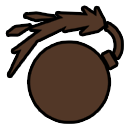
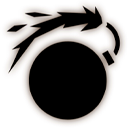
Cambio de la bomba y bug de 3 respuestas arreglado

diff --git a/src/scenes/Controller/CTrivia.ts b/src/scenes/Controller/CTrivia.ts
@@ -47,7 +47,8 @@ export default class CTrivia {
     this._cConfiguracion = cConfiguracion; //Asigna el controlador de configuración
     this.escena.add.image(1920 / 2, 1080 / 2, "fondoTrivia").setDepth(-20); //Agrega el fondo
     this.escena.add.image(225 + 556, 100 + 205, "cuadroDeDialogo"); //Agrega el cuadro de dialogo
-    this.escena.add.image(700, 1030, "moneda"); //Agrega la moneda
+    this.escena.add.image(700, 1015, "moneda"); //Agrega la moneda
+    this.escena.add.image(730, 1015, "moneda"); //Agrega la moneda
     //Animación para Risa
     this.escena.anims.create({
       key: "risaPregunta",
@@ -139,9 +140,11 @@ export default class CTrivia {
     let i = 0;
     this.botones.forEach((b) => {
       b.texto.text = this.preguntas[this.preguntaActual].respuestas[i];
+      b.boton.off("pointerup");
       b.boton.on("pointerup", () => this.PointerUp(b));
       i++;
     });
+    this.botonesMejoras[0].boton.off("pointerup");
     this.botonesMejoras[0].boton.on("pointerup", () =>
       this.BuscarBotonesIncorrectos()
     );
@@ -175,22 +178,28 @@ export default class CTrivia {
         i.push(b);
       }
     }); //Recorre el arreglo de botones y agrega los botones que no son la respuesta correcta
-    i.pop(); //Elimina el último botón
+    console.log(i);
+    while (i.length > 2) {
+      i.pop(); //Elimina el último botón
+    } //Mientras el arreglo de botones sea mayor a 2, elimina el último botón
     this.mejoraBomba.EfectoMejora(i); //Ejecuta el efecto de mejora
-    this.botonesMejoras[0].CambiarColor(0x808080); //Cambia el color del botón
+    this.botonesMejoras[0].boton.setAlpha(0.5); //Pone el botón de mejora en gris
     this.botonesMejoras[0].PausarBoton(); //Pausa el botón
     this.risa.anims.play("risaBomba", true); //Inicia la animación de risa
   }
 
   public ReiniciarNivel() {
-    this.CargarTrivia();
+    this.CargarTrivia();  //Carga las preguntas
     this.botones.forEach((b) => {
-      b.CambiarColor(0xffffff);
-      b.ResetearBoton();
+      b.CambiarColor(0xffffff); //Cambia el color de los botones a blanco
+      b.ResetearBoton();  //Resetea el botón
     });
-    this.botonesMejoras[0].CambiarColor(0xffffff);
-    this.botonesMejoras[0].ResetearBoton();
-    this.risa.anims.play("risaPregunta", true);
+    this.botonesMejoras.forEach((b) => {
+      b.CambiarColor(0xffffff); //Cambia el color de los botones a blanco
+      b.ResetearBoton();  //Resetea el botón
+      b.boton.setAlpha(1);  //Pone el botón en 1 (opacidad)
+    });
+    this.risa.anims.play("risaPregunta", true); //Inicia la animación de risa
   }
 
   //Metodo para definir la funcion del click, en teste caso, consiste en revisar la respuesta y ver si es correcta.

diff --git a/src/scenes/Model/Moneda.ts b/src/scenes/Model/Moneda.ts
@@ -3,19 +3,22 @@ export default class Moneda {
   private _physics: any;
   private _valor: number;
   private _cuerpo: any;
+  private _particulas: any;
 
   constructor(
     sprite: string,
     physics: any,
     valor: number,
     x: number,
-    y: number
+    y: number,
+    particulas: any
   ) {
     this._sprite = sprite;
     this._physics = physics;
     this._valor = valor;
     this._cuerpo = this.physics.add.sprite(x, y, this.sprite);
     this._cuerpo.body.setAllowGravity(false);
+    this._particulas = particulas;
   }
 
   public OcultarMoneda() {
@@ -32,6 +35,10 @@ export default class Moneda {
     } catch (error) {
       console.error("Error al intentar ocultar la moneda." + error);
     }
+  }
+
+  public DesaparecerMoneda() {
+    this.cuerpo.setVisible(false);
   }
 
   //Getters and setters
@@ -60,11 +67,19 @@ export default class Moneda {
     this._valor = v;
   }
 
-  public get cuerpo(): number {
+  public get cuerpo(): any {
     return this._cuerpo;
   }
 
-  public set vacuerpolor(v: number) {
+  public set cuerpo(v: any) {
     this._cuerpo = v;
+  }
+
+  public get particulas(): number {
+    return this._particulas;
+  }
+
+  public set particulas(v: number) {
+    this._particulas = v;
   }
 }

diff --git a/src/scenes/Controller/CMenuPrincipal.ts b/src/scenes/Controller/CMenuPrincipal.ts
@@ -89,8 +89,8 @@ export default class CMenuPrincipal {
     }); //Cuando se pulsa el boton de creditos
     this.botones[1].boton.on("pointerup", () => {
       this.escena.scene.sleep("MenuPrincipal"); //Pausa la escena
+      this.escena.scene.get("Trivia").controladorTrivia.ReiniciarNivel(); //Reinicia el nivel
       this.escena.scene.wake("Trivia");
-      this.escena.scene.get("Trivia").controladorTrivia.ReiniciarNivel();
     }); //Cuando se pulsa el boton de trivia
     this.botones[2].boton.on("pointerup", () => {
       //this.escena.scene.start("Tienda");

diff --git a/src/scenes/Model/MejoraBomba.ts b/src/scenes/Model/MejoraBomba.ts
@@ -12,6 +12,7 @@ export default class MejoraBomba extends Mejora {
 
   public EfectoMejora(botones: Array<Boton>) {
     botones.forEach((boton) => {
+      console.log(boton);
       boton.PausarBoton();
       boton.CambiarColor(0x2980a4);
       this.particulas.EjecutarParticula(boton.boton.x, boton.boton.y);
